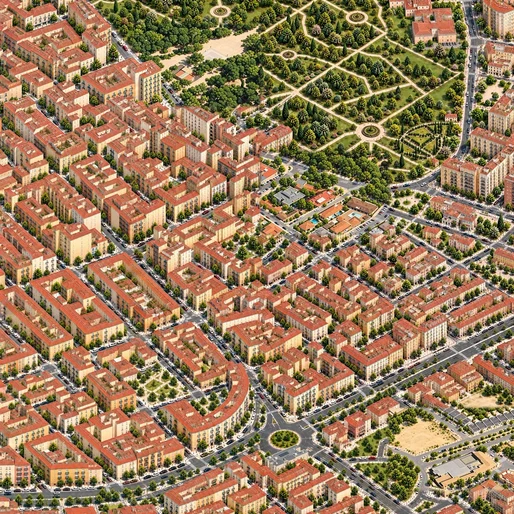
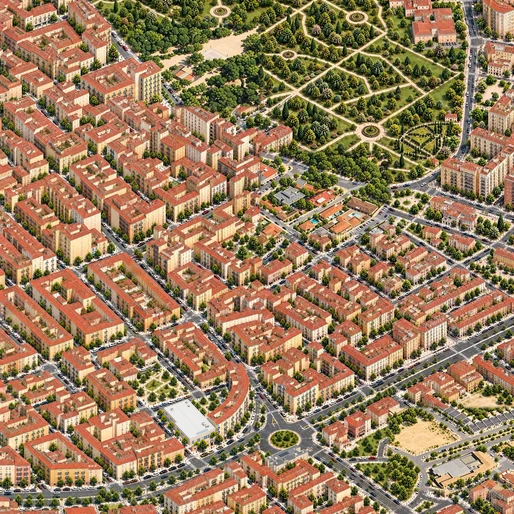
Restore object 32 white nave by object contour (PNOA-contrasted), zero diffs outside support

Changed region(s): [[0.3113, 0.7782, 0.4358, 0.8716]]

diff --git a/DECISIONS.md b/DECISIONS.md
@@ -385,3 +385,11 @@ One512square cell x[-4.25,-4],y[.75,1] completes city-side construction site. Tw
 
 ## 2026-11-17 inventory derived-fact refresh
 Historical point inventories imported stale art extents. Recompute against actualcurrent sourceunion afterevery scopeapply. Science/Botanicpointsinside;Botanicpolygon0.011441043206623334km2inside,0.05852223751175938outside. Pulgosa0overlap,polygon478.4334933644463mfromart,point856.6896372593111m. Pointsarenotwhole-sitecoverage. Sourcegeometrydatespreserved,notcurrent2026survey. Noimage/catalog/map/3Dchange,56sourcefilesexact.
+
+## 2026-11-21 Objeto 32 (nave junto a edificio curvo) restaurado por contorno de objeto
+
+Reanudacion autorizada por Rafa el 21 nov ("Avanza tuuuu"). Primera correccion aplicada con la via de objeto completo aceptada en local el 18 nov, nunca desplegada entonces.
+
+- Produccion anterior mostraba bloques residenciales de teja inventados; la ortofoto PNOA (mosaico mas reciente, servida 2026-11-21 via WMS IGN) muestra una nave industrial blanca junto al edificio curvo y la rotonda. Contraste geografico rehecho hoy de forma independiente (registro marco atlas->UTM validado contra edificio curvo, rotonda y plaza circular); la nave, aceras y cruce coinciden con la referencia. PNOA no prueba estado 2026 ni fachada exacta.
+- Composicion por poligono de contorno de objeto (16 vertices) con desenfoque de 1 px sobre right5.webp; 32.470 pixeles cambiados en L15, 16 teselas de piramide, cero diferencias RGBA fuera del soporte y su proyeccion en todos los niveles, alfa original intacto. Reproducible con el paquete isolated32 (compose.py/atlas.py/verify.py).
+- QA visual propia a resolucion nativa y niveles 14/13/12: integracion sin costuras, rectangulos ni velos; vecinos conservados pixel a pixel. right5.webp y manifiesto actualizados; mapa general, 3D y demas fuentes sin cambios.
